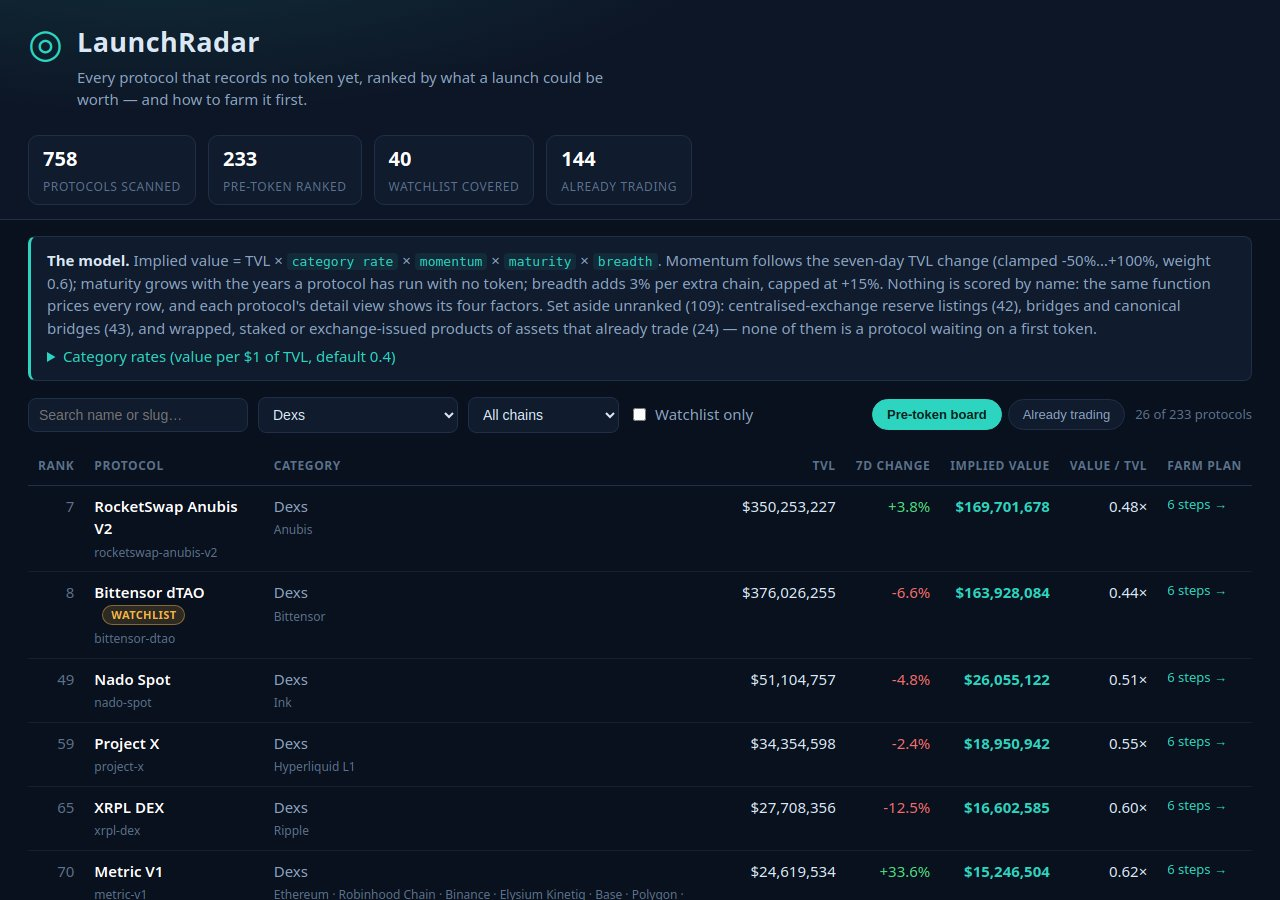
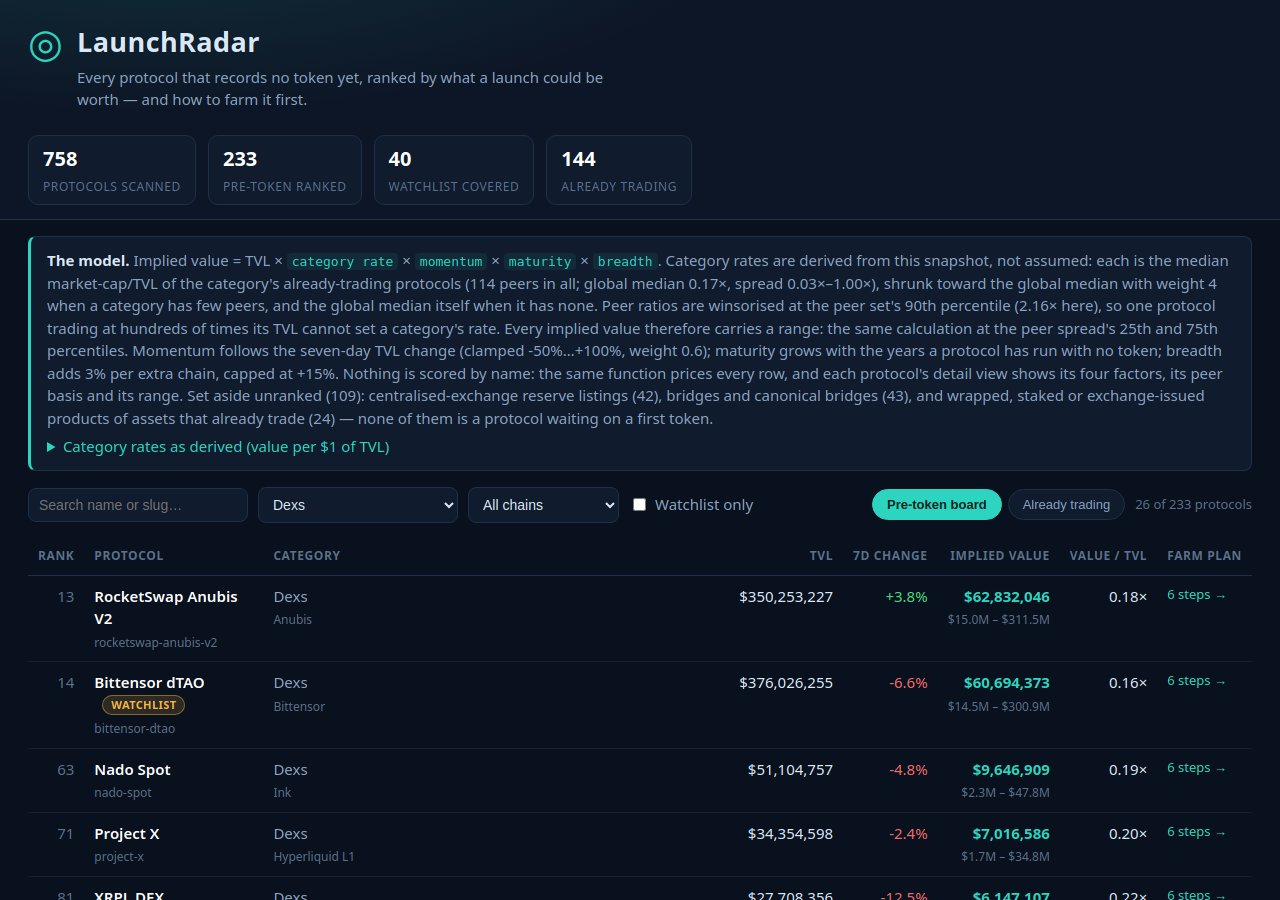
Derive category rates from the snapshot's traded peers
Replace the hand-stated category-rate table with rates derived from
the snapshot itself: per-category median market-cap/TVL of traded
protocols, winsorised at the peer set's 90th percentile and shrunk
toward the global median (weight 4) for thin categories. Implied
values now carry the peer-spread range (shrunk 25th-75th percentiles),
each row shows its peer basis, and detail views add factual caution
flags. Screenshots regenerated from the practice snapshot.

diff --git a/lib/model.ts b/lib/model.ts
@@ -12,8 +12,17 @@
 //   implied = tvl x categoryRate x momentum x maturity x breadth
 //
 //   categoryRate  the share of TVL that comparable, already-tokenised
-//                 protocols in the same category tend to carry as value;
-//                 stated per category below and printed on the dashboard.
+//                 protocols in the same category carry as value in this
+//                 snapshot: the median market-cap/TVL of the category's
+//                 traded protocols, shrunk toward the global median when
+//                 the category has few traded peers (weight 4), after
+//                 every peer ratio is winsorised at the peer set's 90th
+//                 percentile so one extreme peer cannot set the rate.
+//                 Implied values also carry the peer spread — the shrunk 25th
+//                 to 75th percentile band — as a range. No rate is
+//                 stated by hand: every one is derived from the
+//                 snapshot's own traded rows and printed, with its peer
+//                 count, on the dashboard.
 //   momentum      1 + clamp(change_7d, -50, 100) / 100 x 0.6 — a protocol
 //                 gaining TVL is launching into demand; a shrinking one
 //                 is discounted. Unreported change counts as neutral.
@@ -88,6 +97,10 @@ export interface RowDetail {
   watchlist: boolean;
   rank: number;
   implied_value_usd: number;
+  implied_low_usd: number;
+  implied_high_usd: number;
+  peers: { n: number; median: number };
+  flags: string[];
   ratio: number;
   factors: { category_rate: number; momentum: number; maturity: number; breadth: number };
   farm_steps: string[];
@@ -115,42 +128,75 @@ export interface RadarData {
   chains: string[];
   rows: RowDetail[];
   live: LiveRow[];
-  model: { category_rates: Record<string, number>; default_rate: number; momentum_weight: number; momentum_floor: number; momentum_cap: number };
+  model: {
+    peers_total: number;
+    winsor_cap: number;
+    global_median: number;
+    global_q1: number;
+    global_q3: number;
+    shrink_k: number;
+    category_rates: Record<string, number>;
+    category_peers: Record<string, number>;
+    momentum_weight: number;
+    momentum_floor: number;
+    momentum_cap: number;
+  };
 }
 
-/** Category value rates: value carried per dollar of TVL at launch. */
-export const CATEGORY_RATES: Record<string, number> = {
-  'Dexs': 0.8,
-  'Derivatives': 0.9,
-  'Lending': 0.55,
-  'CDP': 0.5,
-  'RWA': 0.6,
-  'Bridge': 0.45,
-  'Yield Aggregator': 0.4,
-  'Onchain Capital Allocator': 0.4,
-  'Yield': 0.35,
-  'Risk Curators': 0.35,
-  'Liquid Staking': 0.3,
-  'Liquid Restaking': 0.3,
-  'Canonical Bridge': 0.25,
-  'Basis Trading': 0.5,
-  'Chain': 1.0,
-  'Payments': 0.5,
-  'NFT Marketplace': 0.45,
-  'Gaming': 0.5,
-  'Launchpad': 0.6,
-  'Oracle': 0.7,
-  'Indexes': 0.3,
-  'Staking Pool': 0.3,
-  'Farm': 0.3,
-  'Options': 0.6,
-  'Insurance': 0.4,
-  'Cross Chain': 0.45,
-};
-export const DEFAULT_RATE = 0.4;
 export const MOMENTUM_WEIGHT = 0.6;
 export const MOMENTUM_FLOOR = -50;
 export const MOMENTUM_CAP = 100;
+/** Peer-count weight of the global median when a category rate is shrunk toward it. */
+export const SHRINK_K = 4;
+
+function r4(v: number): number {
+  return Math.round(v * 10000) / 10000;
+}
+
+/** One quantile of an ascending-sorted set (linear interpolation, deterministic). */
+export function quantileOf(sorted: number[], q: number): number {
+  if (sorted.length === 0) return 0;
+  const pos = (sorted.length - 1) * q;
+  const lo = Math.floor(pos);
+  const hi = Math.ceil(pos);
+  return lo === hi ? sorted[lo]! : sorted[lo]! + (sorted[hi]! - sorted[lo]!) * (pos - lo);
+}
+
+/** Peer ratios are winsorised at this quantile of the whole peer set before any rate is taken. */
+export const WINSOR_Q = 0.9;
+
+/** Median and quartiles of a set of ratios (linear interpolation, deterministic). */
+export function peerStats(ratios: number[]): { n: number; median: number; q1: number; q3: number } {
+  const s = ratios.slice().sort((a, b) => a - b);
+  return { n: s.length, median: quantileOf(s, 0.5), q1: quantileOf(s, 0.25), q3: quantileOf(s, 0.75) };
+}
+
+/** The category rate in use, its peer-spread band, and the peer basis behind it. */
+export interface RateInfo {
+  rate: number;
+  low: number;
+  high: number;
+  peers: number;
+  median: number;
+}
+
+/** Shrink a category's peer stats toward the global ones; with no peers the global rate is the rate. */
+export function rateFromPeers(
+  cat: { n: number; median: number; q1: number; q3: number } | undefined,
+  global: { n: number; median: number; q1: number; q3: number },
+): RateInfo {
+  if (cat === undefined || cat.n === 0) {
+    return { rate: r4(global.median), low: r4(global.q1), high: r4(global.q3), peers: 0, median: global.median };
+  }
+  const mix = (v: number, g: number) => (cat.n * v + SHRINK_K * g) / (cat.n + SHRINK_K);
+  return {
+    rate: r4(mix(cat.median, global.median)),
+    low: r4(mix(cat.q1, global.q1)),
+    high: r4(mix(cat.q3, global.q3)),
+    peers: cat.n,
+    median: cat.median,
+  };
+}
 
 /** Parse the snapshot text; throws on a shape this model cannot read. */
 export function parseSnapshot(text: string): Snapshot {
@@ -174,15 +220,28 @@ function clamp(v: number, lo: number, hi: number): number {
   return Math.min(hi, Math.max(lo, v));
 }
 
-/** The four model factors for one protocol. */
-export function factorsOf(p: SnapshotProtocol, asOf: string): RowDetail['factors'] {
-  const category_rate = CATEGORY_RATES[p.category ?? ''] ?? DEFAULT_RATE;
+/** The four model factors for one protocol, given its derived category rate. */
+export function factorsOf(p: SnapshotProtocol, asOf: string, categoryRate: number): RowDetail['factors'] {
+  const category_rate = categoryRate;
   const growth = p.change_7d === null ? 0 : clamp(p.change_7d, MOMENTUM_FLOOR, MOMENTUM_CAP);
   const momentum = 1 + (growth / 100) * MOMENTUM_WEIGHT;
   const age = daysBetween(p.listed_at, asOf);
   const maturity = age === null ? 0.775 : 0.55 + 0.45 * (Math.min(age, 1460) / 1460);
   const breadth = 1 + 0.03 * Math.min(Math.max(p.chains.length - 1, 0), 5);
   return { category_rate, momentum, maturity, breadth };
+}
+
+/** Factual cautions a row carries, read from its own figures only. */
+export function flagsOf(p: SnapshotProtocol, asOf: string, ri: RateInfo): string[] {
+  const flags: string[] = [];
+  if (p.change_7d !== null && p.change_7d <= -20) flags.push('TVL down sharply over 7 days');
+  if (p.change_7d === null) flags.push('No 7-day change reported');
+  if (ri.peers === 0) flags.push('No traded peers in its category — global rate');
+  else if (ri.peers < 3) flags.push(`Only ${ri.peers} traded peer${ri.peers === 1 ? '' : 's'} — rate shrunk toward the global median`);
+  const age = daysBetween(p.listed_at, asOf);
+  if (age !== null && age < 180) flags.push('Tracked for under 6 months');
+  if (p.chains.length === 1) flags.push('Single chain');
+  return flags.slice(0, 4);
 }
 
 /** Whole-dollar formatting the farm steps use, e.g. 2500 -> "$2,500". */
@@ -287,10 +346,36 @@ export function buildRadar(snapshot: Snapshot): { board: BoardRow[]; radar: Rada
   });
   const liveAll = snapshot.protocols.filter((p) => p.mcap_usd !== null);
 
+  // Category rates are derived, not stated: the traded rows that are not
+  // set aside form the peer set, grouped by category over the whole set.
+  const peerRows = snapshot.protocols.filter((p) => p.mcap_usd !== null && p.tvl_usd > 0 && asideReason(p) === null);
+  // Winsorise the peer ratios at the peer set's 90th percentile: a single
+  // protocol whose token trades at hundreds of times its recorded TVL
+  // must not be allowed to set a whole category's rate.
+  const rawRatios = peerRows.map((p) => (p.mcap_usd ?? 0) / p.tvl_usd);
+  const winsorCap = quantileOf(rawRatios.slice().sort((a, b) => a - b), WINSOR_Q);
+  const peerRatios = rawRatios.map((r) => Math.min(r, winsorCap));
+  const globalStats = peerStats(peerRatios);
+  const byCat = new Map<string, number[]>();
+  peerRows.forEach((p, i) => {
+    if (p.category === null) return;
+    const arr = byCat.get(p.category) ?? [];
+    arr.push(peerRatios[i]!);
+    byCat.set(p.category, arr);
+  });
+  const catStats = new Map<string, ReturnType<typeof peerStats>>();
+  for (const [c, arr] of byCat) catStats.set(c, peerStats(arr));
+  const rateOf = (p: SnapshotProtocol): RateInfo =>
+    rateFromPeers(p.category === null ? undefined : catStats.get(p.category), globalStats);
+
   const scored = preToken.map((p) => {
-    const f = factorsOf(p, snapshot.as_of);
-    const implied = Math.max(1, Math.round(p.tvl_usd * f.category_rate * f.momentum * f.maturity * f.breadth));
-    return { p, f, implied };
+    const ri = rateOf(p);
+    const f = factorsOf(p, snapshot.as_of, ri.rate);
+    const rest = f.momentum * f.maturity * f.breadth;
+    const implied = Math.max(1, Math.round(p.tvl_usd * ri.rate * rest));
+    const implied_low = Math.max(1, Math.round(p.tvl_usd * ri.low * rest));
+    const implied_high = Math.max(implied, Math.round(p.tvl_usd * ri.high * rest));
+    return { p, f, ri, implied, implied_low, implied_high };
   });
   // Rank by implied value; ties fall to TVL, then slug, so two runs agree byte for byte.
   scored.sort((a, b) => b.implied - a.implied || b.p.tvl_usd - a.p.tvl_usd || (a.p.slug < b.p.slug ? -1 : 1));
@@ -306,6 +391,10 @@ export function buildRadar(snapshot: Snapshot): { board: BoardRow[]; radar: Rada
     watchlist: watch.has(s.p.slug),
     rank: i + 1,
     implied_value_usd: s.implied,
+    implied_low_usd: s.implied_low,
+    implied_high_usd: s.implied_high,
+    peers: { n: s.ri.peers, median: Math.round(s.ri.median * 1000) / 1000 },
+    flags: flagsOf(s.p, snapshot.as_of, s.ri),
     ratio: Math.round((s.implied / Math.max(1, s.p.tvl_usd)) * 1000) / 1000,
     factors: s.f,
     farm_steps: farmSteps(s.p),
@@ -341,8 +430,14 @@ export function buildRadar(snapshot: Snapshot): { board: BoardRow[]; radar: Rada
     rows,
     live,
     model: {
-      category_rates: CATEGORY_RATES,
-      default_rate: DEFAULT_RATE,
+      peers_total: globalStats.n,
+      winsor_cap: r4(winsorCap),
+      global_median: r4(globalStats.median),
+      global_q1: r4(globalStats.q1),
+      global_q3: r4(globalStats.q3),
+      shrink_k: SHRINK_K,
+      category_rates: Object.fromEntries(categories.map((c) => [c, rateFromPeers(catStats.get(c), globalStats).rate])),
+      category_peers: Object.fromEntries(categories.map((c) => [c, catStats.get(c)?.n ?? 0])),
       momentum_weight: MOMENTUM_WEIGHT,
       momentum_floor: MOMENTUM_FLOOR,
       momentum_cap: MOMENTUM_CAP,

diff --git a/dashboard/app.js b/dashboard/app.js
@@ -35,12 +35,17 @@ $('asof').textContent = R.as_of;
 const rates = Object.entries(R.model.category_rates).sort((a, b) => b[1] - a[1]);
 $('model').innerHTML =
   `<b>The model.</b> Implied value = TVL × <code>category rate</code> × <code>momentum</code> × <code>maturity</code> × <code>breadth</code>. ` +
+  `Category rates are derived from this snapshot, not assumed: each is the median market-cap/TVL of the category's already-trading protocols ` +
+  `(${R.model.peers_total} peers in all; global median ${R.model.global_median.toFixed(2)}×, spread ${R.model.global_q1.toFixed(2)}×–${R.model.global_q3.toFixed(2)}×), ` +
+  `shrunk toward the global median with weight ${R.model.shrink_k} when a category has few peers, and the global median itself when it has none. ` +
+  `Peer ratios are winsorised at the peer set's 90th percentile (${R.model.winsor_cap.toFixed(2)}× here), so one protocol trading at hundreds of times its TVL cannot set a category's rate. ` +
+  `Every implied value therefore carries a range: the same calculation at the peer spread's 25th and 75th percentiles. ` +
   `Momentum follows the seven-day TVL change (clamped ${R.model.momentum_floor}%…+${R.model.momentum_cap}%, weight ${R.model.momentum_weight}); ` +
   `maturity grows with the years a protocol has run with no token; breadth adds 3% per extra chain, capped at +15%. ` +
-  `Nothing is scored by name: the same function prices every row, and each protocol's detail view shows its four factors. ` +
+  `Nothing is scored by name: the same function prices every row, and each protocol's detail view shows its four factors, its peer basis and its range. ` +
   `Set aside unranked (${R.aside.cex + R.aside.bridge + R.aside.product}): centralised-exchange reserve listings (${R.aside.cex}), bridges and canonical bridges (${R.aside.bridge}), and wrapped, staked or exchange-issued products of assets that already trade (${R.aside.product}) — none of them is a protocol waiting on a first token.` +
-  `<details><summary>Category rates (value per $1 of TVL, default ${R.model.default_rate})</summary><table><tr><th>Category</th><th>Rate</th></tr>` +
-  rates.map(([k, v]) => `<tr><td>${esc(k)}</td><td>${v}</td></tr>`).join('') +
+  `<details><summary>Category rates as derived (value per $1 of TVL)</summary><table><tr><th>Category</th><th>Traded peers</th><th>Rate used</th></tr>` +
+  rates.map(([k, v]) => `<tr><td>${esc(k)}</td><td>${R.model.category_peers[k] ?? 0}</td><td>${v.toFixed(3)}</td></tr>`).join('') +
   `</table></details>`;
 
 // ---------- toolbar ----------
@@ -77,7 +82,7 @@ function renderBoard() {
       <td class="cat">${esc(r.category ?? 'Uncategorised')}<br><span class="chains">${esc(r.chains.join(' · '))}</span></td>
       <td class="num">${money(r.tvl_usd)}</td>
       <td class="num">${pct(r.change_7d)}</td>
-      <td class="num implied">${money(r.implied_value_usd)}</td>
+      <td class="num implied">${money(r.implied_value_usd)}<br><span class="range">${compact(r.implied_low_usd)} – ${compact(r.implied_high_usd)}</span></td>
       <td class="num">${r.ratio.toFixed(2)}×</td>
       <td class="plan">${r.farm_steps.length} steps →</td>
     </tr>`).join('');
@@ -101,16 +106,17 @@ function openDetail(slug) {
     <button class="close" type="button" id="close-detail">Close ✕</button>
     <h2>${esc(r.name)} ${r.watchlist ? '<span class="badge">WATCHLIST</span>' : ''}</h2>
     <p class="sub">Rank #${r.rank} of ${R.rows.length} pre-token protocols · ${esc(r.category ?? 'Uncategorised')} · records no token in the ${R.as_of} snapshot</p>
+    ${r.flags.length ? `<p class="flags">${r.flags.map((x) => `<span class="flag">${esc(x)}</span>`).join('')}</p>` : ''}
     <div class="facts">
       <div class="fact"><b>${money(r.tvl_usd)}</b><span>TVL</span></div>
-      <div class="fact"><b>${money(r.implied_value_usd)}</b><span>Implied value</span></div>
+      <div class="fact"><b>${money(r.implied_value_usd)}</b><span>Implied value</span><div class="range">peer range ${compact(r.implied_low_usd)} – ${compact(r.implied_high_usd)}</div></div>
       <div class="fact"><b>${r.ratio.toFixed(2)}×</b><span>Value / TVL</span></div>
       <div class="fact"><b>${r.change_7d === null ? '—' : `${r.change_7d > 0 ? '+' : ''}${r.change_7d.toFixed(1)}%`}</b><span>TVL change, 7d</span></div>
       <div class="fact"><b>${esc(r.listed_at ?? 'unknown')}</b><span>Tracked since</span></div>
       <div class="fact"><b>${esc(r.chains.join(', ') || '—')}</b><span>Chains</span></div>
     </div>
     <div class="factors">
-      ${factorBar('Category rate', f.category_rate, 1.2, `${esc(r.category ?? 'default')} rate per $1 of TVL`)}
+      ${factorBar('Category rate', f.category_rate, 1.2, r.peers.n > 0 ? `median of ${r.peers.n} traded peer${r.peers.n === 1 ? '' : 's'} in the category` : 'global median — no traded peers in the category')}
       ${factorBar('Momentum', f.momentum, 1.6, 'from the 7-day TVL change')}
       ${factorBar('Maturity', f.maturity, 1.0, 'years running with no token')}
       ${factorBar('Breadth', f.breadth, 1.15, `${r.chains.length} chain${r.chains.length === 1 ? '' : 's'}`)}

diff --git a/dashboard/index.html b/dashboard/index.html
@@ -50,7 +50,7 @@
   </table>
 
   <section id="live" hidden>
-    <p class="live-note">These protocols already have a token trading, so the radar does not rank them — a launch value would be a guess about a price that already exists. They are shown with the market's own figures as the reference set the category rates were calibrated against.</p>
+    <p class="live-note">These protocols already have a token trading, so the radar does not rank them — a launch value would be a guess about a price that already exists. They are shown with the market's own figures — they are the reference set the category rates are derived from.</p>
     <table id="livetable">
       <thead><tr><th>Protocol</th><th>Category</th><th class="num">TVL</th><th class="num">Market cap</th><th class="num">Mcap / TVL</th></tr></thead>
       <tbody id="liverows"></tbody>

diff --git a/dashboard/app.css b/dashboard/app.css
@@ -106,3 +106,9 @@ button.close {
   border-radius: 8px; padding: 5px 12px; cursor: pointer;
 }
 footer { padding: 6px 28px 26px; color: var(--faint); font-size: 13px; max-width: 1000px; }
+.range { color: var(--faint); font-size: 12px; font-weight: 400; }
+.flags { display: flex; gap: 6px; flex-wrap: wrap; margin: 0 0 12px; }
+.flag {
+  padding: 1px 8px; border-radius: 999px; font-size: 11px; font-weight: 600;
+  background: rgba(245,181,68,.08); color: var(--amber); border: 1px solid rgba(245,181,68,.4);
+}

diff --git a/README.md b/README.md
@@ -21,18 +21,32 @@ watchlist leaves them out.
 Implied value = TVL × category rate × momentum × maturity × breadth,
 computed only from the snapshot's own figures:
 
-- **category rate** — value carried per $1 of TVL, per category (stated in
-  `lib/model.ts` and on the dashboard);
+- **category rate** — derived, never stated by hand: the median
+  market-cap/TVL of the category's already-trading protocols in the
+  same snapshot, after every peer ratio is winsorised at the peer
+  set's 90th percentile (one protocol trading at hundreds of times
+  its TVL cannot set a category's rate), and shrunk toward the global
+  median (weight 4) when a category has few traded peers — the global
+  median itself when it has none;
 - **momentum** — from the seven-day TVL change, clamped −50%…+100%,
   weight 0.6; unreported change is neutral;
 - **maturity** — grows with the years a protocol has run with no token
   (listed_at against the snapshot's as_of date);
 - **breadth** — +3% per additional chain, capped at +15%.
 
-No protocol is scored by name: one function prices every row, and the
-dashboard's detail view shows each protocol's four factors. Every row
-carries a five-to-six-step farm plan written from its category, home
-chain and TVL tier, with position sizes, gas budgets and week counts.
+Every implied value is shown with its peer range — the same
+calculation at the shrunk 25th and 75th percentiles of the category's
+peer spread — because a point estimate would claim a precision the
+peer set does not support. Each row's detail view shows its four
+factors, the peer basis behind its rate (how many traded peers, at
+what median), and factual caution flags read from its own figures
+(sharply falling TVL, single chain, short track record, thin peer
+set).
+
+No protocol is scored by name: one function prices every row. Every
+row carries a five-to-six-step farm plan written from its category,
+home chain and TVL tier, with position sizes, gas budgets and week
+counts.
 
 ## The dashboard
 
